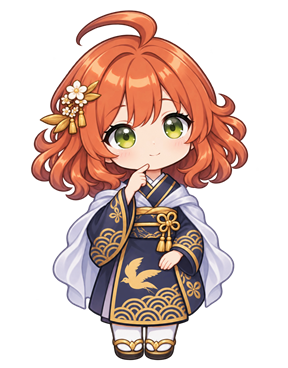
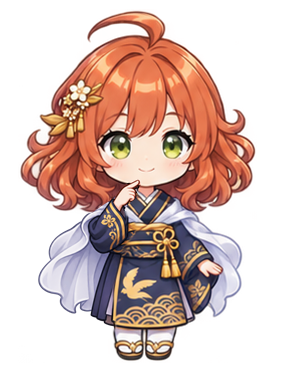
fix(M09): keep the resting head proportions throughout the thinking pose

diff --git a/src/HagoromoChan.Desktop/BundledReactionDrawing.cs b/src/HagoromoChan.Desktop/BundledReactionDrawing.cs
@@ -125,12 +125,11 @@ internal sealed class BundledReactionDrawing
             context.DrawRectangle(Brushes.Transparent, null, _canvas);
             if (pose == Pose.Thinking)
             {
-                // Keep both soles on the shared baseline while the shoulders breathe and sway.
-                var angle = step * Math.Tau / ThinkingSteps;
-                var sway = .006 * Math.Sin(angle);
-                var breath = .004 * (1 - Math.Cos(angle));
+                // A rigid tilt keeps the face and fingertip together around the midpoint of the soles.
+                var degrees = 0.45 * Math.Sin(step * Math.Tau / ThinkingSteps);
+                var footX = left + width / 2;
                 var footY = top + height * 360 / 368;
-                context.PushTransform(new MatrixTransform(1, 0, sway, 1 - breath, -sway * footY, breath * footY));
+                context.PushTransform(new RotateTransform(degrees, footX, footY));
             }
             context.DrawImage(cell, new Rect(left, top, width, height));
             if (pose == Pose.Thinking) context.Pop();
